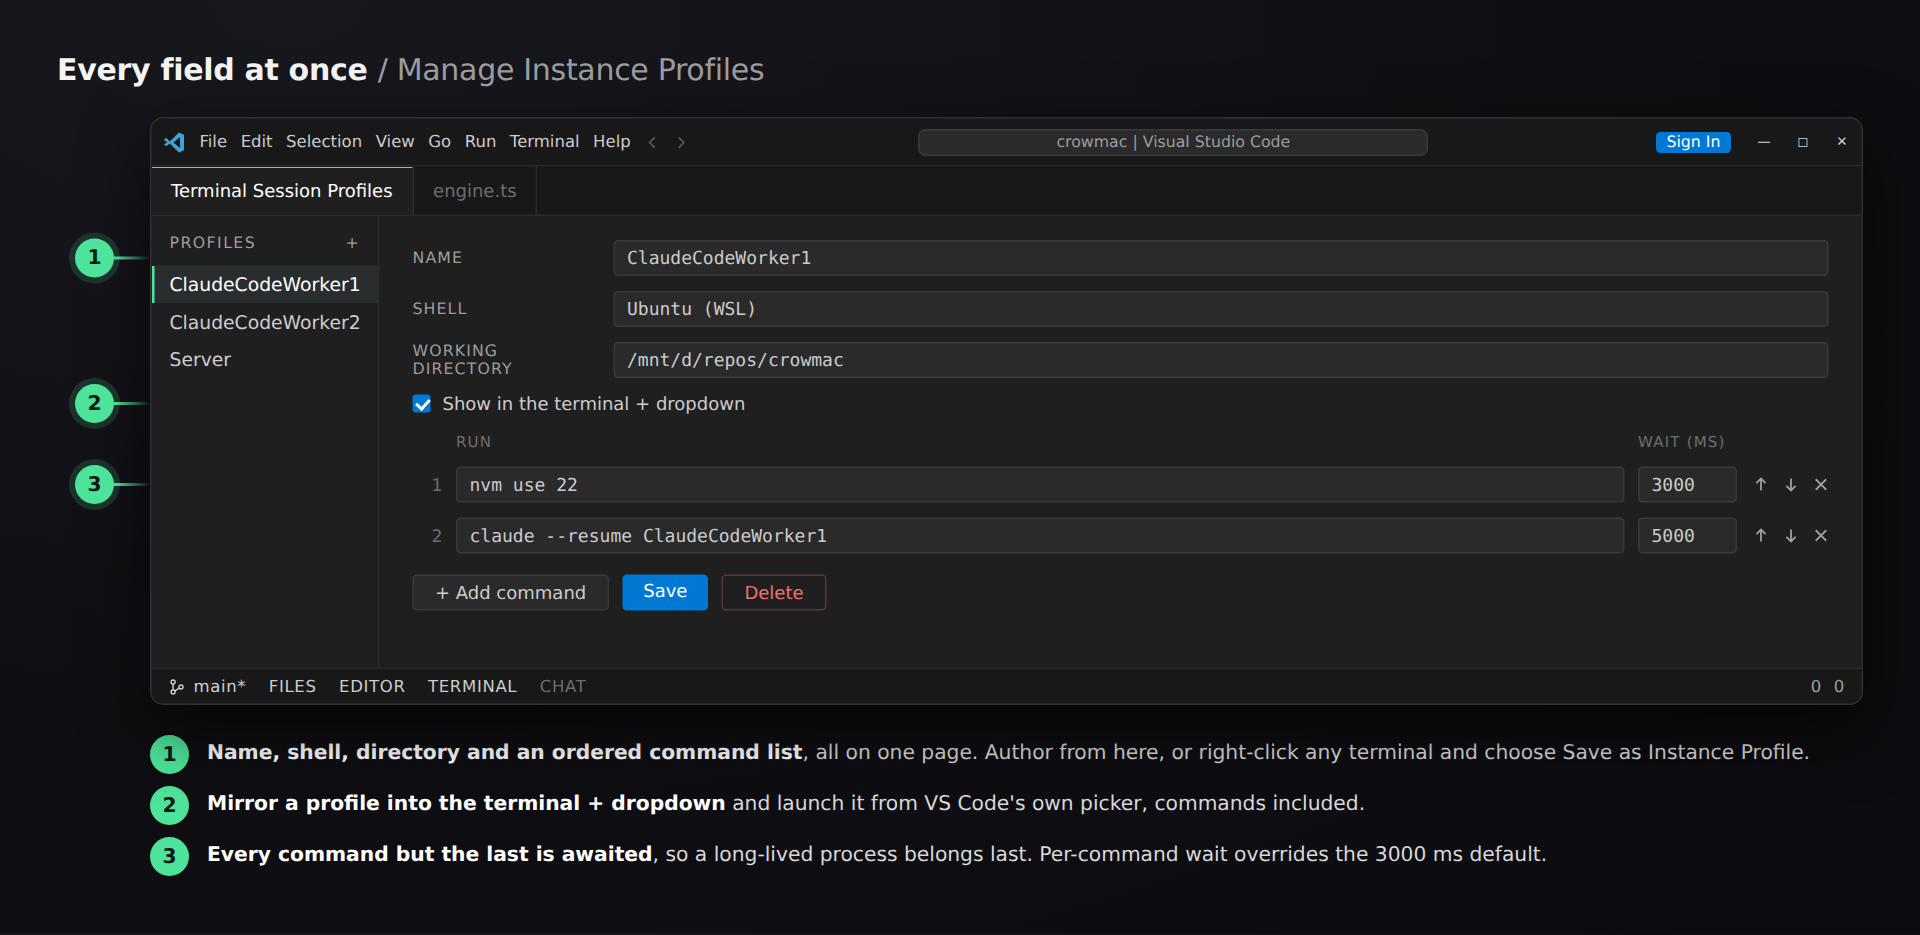
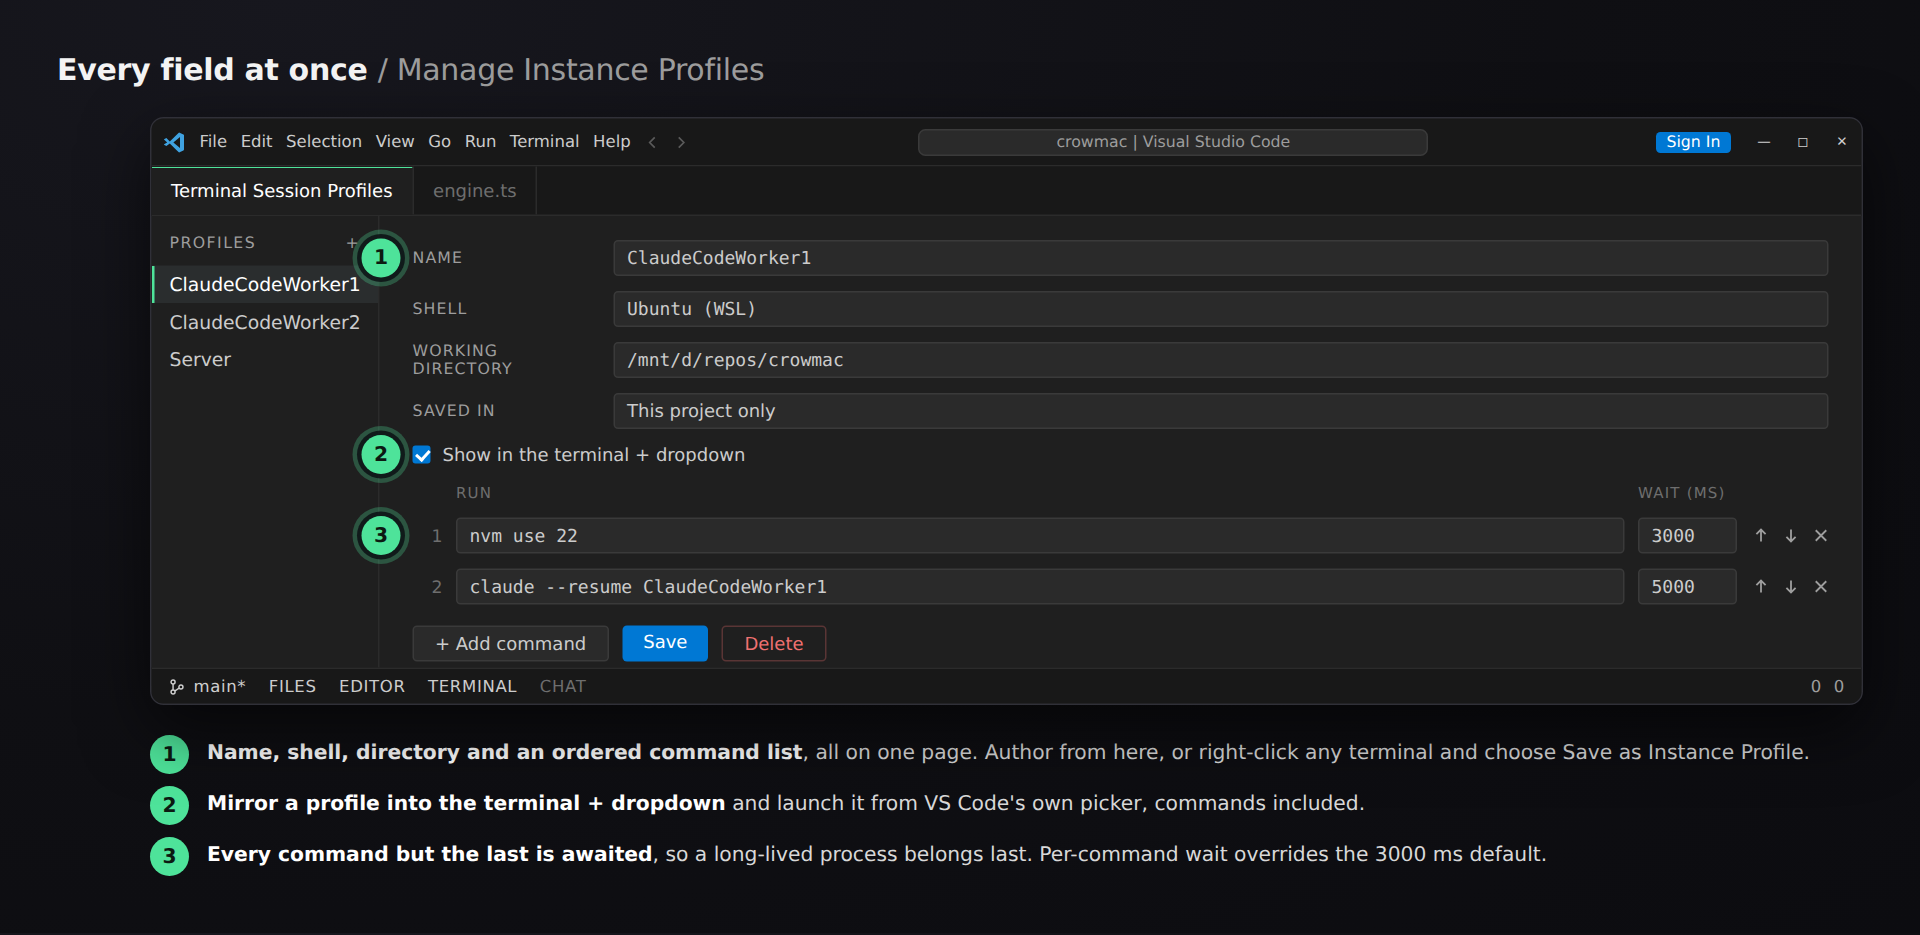
Trim two README sections and finish the listing screenshots
The activity-bar-icon recovery notes documented a failure reachable only when
the extension's own view id changes, and those ids are frozen now, so it was
troubleshooting for a problem the reader will not have. The restore section ran
four dense paragraphs of mechanism; it keeps three sentences, because restore is
a headline feature and dropping it to nothing would undersell the product, but
the how belongs in the changelog rather than the front page.

Screenshot form gains uppercase labels and the SAVED IN control, matching the
shipping UI. Frame 2's callouts move from the frame gutter to their own form
rows: the y positions were already right, but at the far left the leader lines
appeared to point at the profiles column instead of the fields they name.

diff --git a/scripts/screenshots.html b/scripts/screenshots.html
@@ -157,6 +157,12 @@
         if (pin.dataset.place === 'right') {
           pin.classList.add('inline');
           pin.style.left = Math.round(r.right - s.left + 12) + 'px';
+        } else if (pin.dataset.place === 'outside-left') {
+          // Just clear of the target's left edge. A gutter pin would sit at the
+          // frame edge, where its leader line appears to point at whatever
+          // column happens to be there rather than at the row it marks.
+          pin.classList.add('inline');
+          pin.style.left = Math.round(r.left - s.left - 34) + 'px';
         } else if (pin.dataset.place === 'left') {
           // Marks a column from inside its own edge. Placing it on the right
           // would put it over the neighbour and read as pointing at that.
@@ -247,9 +253,9 @@
 <div class="frame" id="shot-editor">
   <div class="caption">Every field at once <span>/ Manage Instance Profiles</span></div>
   <div class="stage">
-    <div class="pin" data-target=".form .field:first-child" data-place="gutter">1</div>
-    <div class="pin" data-target=".form .check" data-place="gutter">2</div>
-    <div class="pin" data-target=".form .cmd" data-place="gutter">3</div>
+    <div class="pin" data-target=".form .field:first-child" data-place="outside-left">1</div>
+    <div class="pin" data-target=".form .check" data-place="outside-left">2</div>
+    <div class="pin" data-target=".form .cmd" data-place="outside-left">3</div>
     <div class="win" style="height: 392px;">
       <div class="titlebar"><svg class="vslogo" viewBox="0 0 24 24"><path d="M17.6 2.2 21.4 4a1 1 0 0 1 .6.9v14.2a1 1 0 0 1-.6.9l-3.8 1.8a1 1 0 0 1-1.1-.2L7.8 13l-3.4 2.6-1.9-1a.7.7 0 0 1 0-1.2L5.2 12 2.5 9.6a.7.7 0 0 1 0-1.2l1.9-1L7.8 11l8.7-8.6a1 1 0 0 1 1.1-.2Zm.4 4.3L11.4 12l6.6 5.5V6.5Z" fill="#3fa2e0"/></svg><div class="menubar"><span>File</span><span>Edit</span><span>Selection</span><span>View</span><span>Go</span><span>Run</span><span>Terminal</span><span>Help</span></div><div class="navb"><svg viewBox="0 0 16 16" fill="none" stroke="currentColor" stroke-width="1.5"><path d="M10 3.5 5.5 8l4.5 4.5"/></svg><svg viewBox="0 0 16 16" fill="none" stroke="currentColor" stroke-width="1.5"><path d="M6 3.5 10.5 8 6 12.5"/></svg></div><div class="pill">crowmac | Visual Studio Code</div><span class="signin">Sign In</span><div class="wctl"><span>&#8212;</span><span>&#9723;</span><span>&#10005;</span></div></div>
       <div class="body">
@@ -266,6 +272,7 @@
               <div class="field"><label>NAME</label><div class="input">ClaudeCodeWorker1</div></div>
               <div class="field"><label>SHELL</label><div class="input">Ubuntu (WSL)</div></div>
               <div class="field"><label>WORKING DIRECTORY</label><div class="input">/mnt/d/repos/crowmac</div></div>
+              <div class="field"><label>SAVED IN</label><div class="input" style="font-family:var(--sans)">This project only</div></div>
               <div class="check"><span class="box"></span> Show in the terminal + dropdown</div>
               <div class="cmd-head"><span></span><span>RUN</span><span>WAIT (MS)</span><span></span></div>
               <div class="cmd">

diff --git a/README.md b/README.md
@@ -38,21 +38,11 @@ Commands run in order once shell integration reports ready. **Every command but 
 
 ![Every field at once: the profile editor with name, shell, working directory and an ordered command list](.product/public/02-editor.png)
 
-### If the activity bar icon disappears
-
-VS Code remembers which container each view lives in, and moves a view to a default container if its own container id ever stops existing. A container left with no views is hidden, so the icon goes with it. Run **Show Session Profiles View** from the palette: it reveals the view wherever it currently is, and offers to reset view locations if it cannot. Dragging the view back out of the Explorer works too.
-
-Extensions cannot read or set view locations, so this is recovery rather than prevention. The ids `terminalSessions` and `terminalSessions.profiles` are frozen for exactly this reason.
-
 ### Restoring after a restart
 
-Out of the box, closing a VS Code **window** loses your terminals entirely. `terminal.integrated.persistentSessionReviveProcess` defaults to `onExit`, which means *application* exit, so a window close or a stopped debug session takes them with it. Terminal Sessions widens that to `onExitAndWindowClose`, and that alone is what makes the tabs come back.
+Close a VS Code window and your terminals are gone: `persistentSessionReviveProcess` ships as `onExit`, meaning *application* exit. Terminal Sessions widens that, then relaunches each saved profile in the right shell with its commands replayed. A terminal whose process genuinely survived is left alone rather than replaced.
 
-Tabs are only half of it, though. A revived tab is a fresh **default-profile** shell with your old scrollback replayed into it: the name is right and the text looks familiar, but the shell is wrong and nothing is running. In testing, a tab that had been Ubuntu with `claude` running in it came back as a bare `PS D:\...>` prompt.
-
-So the extension does the other half too. Launched profiles are remembered per workspace, and on startup each revived tab whose name matches a saved profile is disposed and relaunched as that profile, in the right shell, with its commands replayed. Automatic by default, governed by `terminalSessions.autoRestoreSession`. **Restore Last Session** in the palette re-runs it, for the one case automation misses: after closing a restored terminal by hand.
-
-A terminal whose process genuinely survived is left alone rather than replaced: the process id recorded at launch is compared against the one that came back, because the two cases are indistinguishable by name and getting it wrong would kill a live session.
+Automatic by default, governed by `terminalSessions.autoRestoreSession`.
 
 ## Columns
 

diff --git a/CHANGELOG.md b/CHANGELOG.md
@@ -4,6 +4,26 @@ All notable changes to **Terminal Sessions** are documented here. The format fol
 [Keep a Changelog](https://keepachangelog.com/en/1.1.0/), and this project adheres to
 [Semantic Versioning](https://semver.org/spec/v2.0.0.html).
 
+## [0.4.3] - 2026-08-01
+
+### Changed
+
+- Listing screenshots rebuilt on the chrome the demo already uses: VS Code logo, menu bar, command
+  pill, the real terminal tab row with its terminal list, and the branch and diagnostics clusters in
+  the status bar. The listing had been showing a less accurate mock than the video, and the terminal
+  list is where profile names actually surface.
+- The profile form in the screenshots gains uppercase labels and the **SAVED IN** control it has
+  shipped with since 0.3.1.
+- Examples renamed to `ClaudeCodeWorker1`, `ClaudeCodeWorker2`, `Server` and `CommandLine`, so the
+  README, the screenshots and the demo agree.
+
+### Removed
+
+- Two README sections that were mechanism dumps rather than documentation: the activity-bar-icon
+  recovery notes, which describe a failure reachable only if the extension's own view id changes and
+  those ids are now frozen, and the long restore explanation. Restore keeps a short statement, since
+  it is a headline feature.
+
 ## [0.4.2] - 2026-08-01
 
 ### Changed
